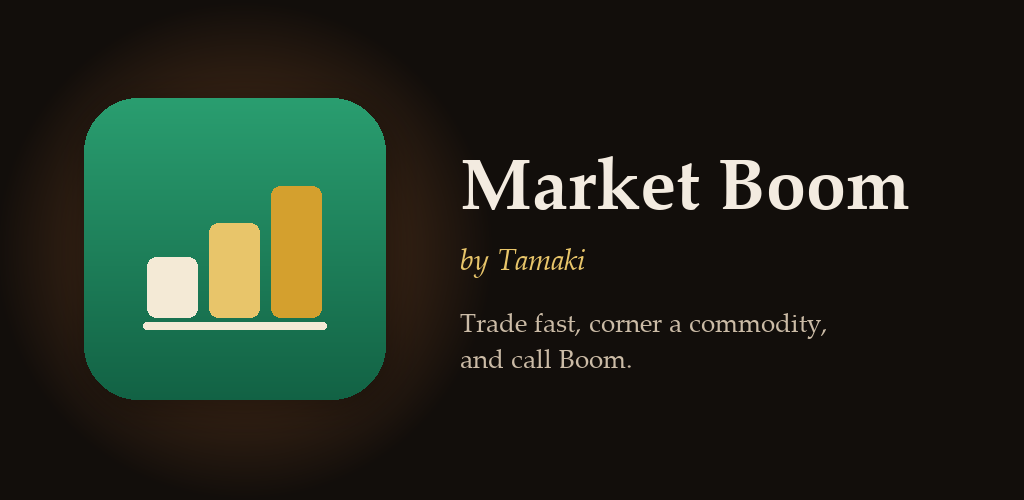
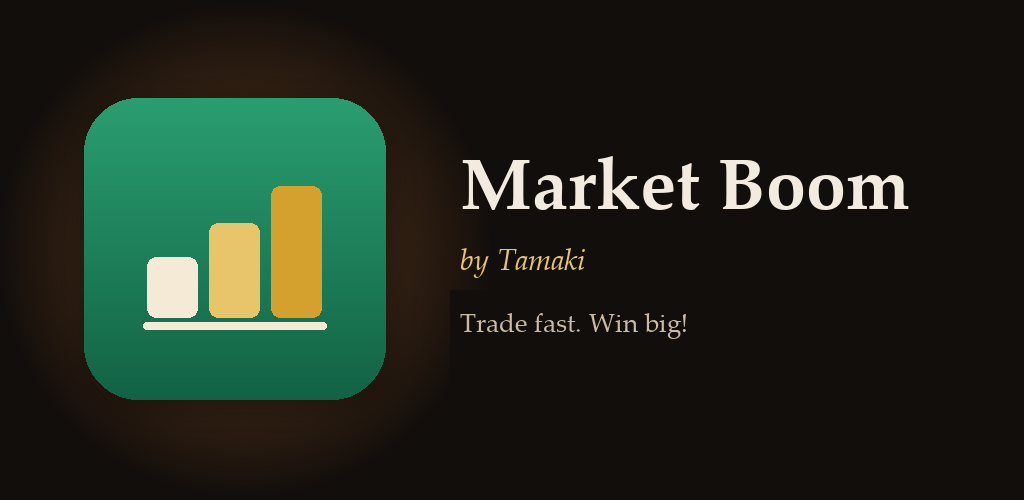
Market Boom tag line update

Changed region(s): [[0.5625, 0.63, 0.8125, 0.69], [0.4375, 0.69, 0.625, 0.75]]

diff --git a/coming-soon/index.html b/coming-soon/index.html
@@ -43,13 +43,13 @@
           </div>
         </article>
         <article class="game">
-          <img class="banner" src="/graphics/marketboom.png" alt="Market Boom by Tamaki. Trade fast, corner a commodity, and call Boom." />
+          <img class="banner" src="/graphics/marketboom.png?v=2" alt="Market Boom by Tamaki. Trade fast. Win big!" />
           <div class="game-body">
             <div class="game-copy">
               <img src="/icons/marketboom.svg" alt="" />
               <div>
                 <h2>Market Boom</h2>
-                <p>Trade fast, corner a commodity, and call Boom.</p>
+                <p>Trade fast. Win big!</p>
               </div>
             </div>
             <div class="actions">

diff --git a/index.html b/index.html
@@ -93,7 +93,7 @@
           <li>
             <a href="/coming-soon/">
               <img src="/icons/marketboom.svg" alt="" />
-              <span><strong>Market Boom</strong>Trade fast, corner a commodity, and call Boom.</span>
+              <span><strong>Market Boom</strong>Trade fast. Win big!</span>
             </a>
           </li>
         </ul>
